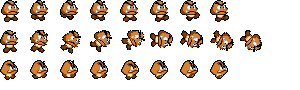
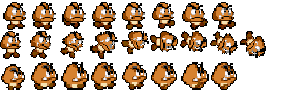
211118_0954
1. 몬스터 goomba 구현
2. MapEditor를 통한 몬스터 생성 구현
3. goomba와 player의 충돌체크

diff --git a/Player.py b/Player.py
@@ -1,6 +1,8 @@
 import game_framework
 import enum
 import math
+
+import mob_goomba
 from collide import *
 from pico2d import *
 
@@ -406,7 +408,6 @@ class JumpState:
         if not player.isJumping:
             player.timer_jump = 0
             player.jump_startY = player.y
-            print(player.y)
             player.isJumping = True
 
         # 방향
@@ -511,14 +512,12 @@ class JumpState:
 
                                 game_data.gameData.coin += 1
                             elif box.itemValue == boxType.mushroom:
-                                print('버섯')#
                                 newMush = Item_TransForm.TransformItem()
                                 newMush.x, newMush.y = box.x, box.y + box.frameY
                                 newMush.itemValue = transitem_Value.Mushroom
                                 Item_TransForm.transItems.append(newMush)
                                 game_world.add_object(newMush, 1)
                             elif box.itemValue == boxType.flower:
-                                print('꽃')#
                                 newFlower = Item_TransForm.TransformItem()
                                 newFlower.x, newFlower.y = box.x, box.y + box.frameY
                                 newFlower.isReverse = False
@@ -761,14 +760,12 @@ class GroundpoundState:
 
                                 game_data.gameData.coin += 1
                             elif box.itemValue == boxType.mushroom:
-                                print('버섯')  #
                                 newMush = Item_TransForm.TransformItem()
                                 newMush.x, newMush.y = box.x, box.y - box.frameY
                                 newMush.itemValue = transitem_Value.Mushroom
                                 Item_TransForm.transItems.append(newMush)
                                 game_world.add_object(newMush, 1)
                             elif box.itemValue == boxType.flower:
-                                print('꽃')  #
                                 newFlower = Item_TransForm.TransformItem()
                                 newFlower.x, newFlower.y = box.x, box.y - box.frameY
                                 newFlower.isReverse = True
@@ -876,7 +873,7 @@ next_state_table = {
     JumpState: {RIGHT_DOWN: JumpState, LEFT_DOWN: JumpState, RIGHT_UP: JumpState, LEFT_UP: JumpState
         , UP_DOWN: JumpState, UP_UP: JumpState, DOWN_DOWN: GroundpoundState, DOWN_UP: JumpState
         , SHIFT_DOWN: JumpState, SHIFT_UP: JumpState
-        , SPACE: DownState
+        , SPACE: JumpState
         , FALLING_EVENT: FallingState
         , LANDING_EVENT: IdleState, LANDING_RUN_EVENT: RunState, LANDING_DASH_EVENT: DashState
         , TRANSLATE_EVENT: TranslateState},
@@ -1017,6 +1014,27 @@ class Player:
                 game_world.remove_object(transItem)
                 break
 
+        # 몬스터
+        # 몬스터 충돌
+        for goomba in mob_goomba.goombas:
+            if not goomba.ismoving:
+                # goomba는 화면에 처음 잡혔을 때부터 움직이기 시작한다.
+                if self.x - self.scrollX <= goomba.x - goomba.scrollX <= self.x + 800 - self.scrollX:
+                    goomba.ismoving = True
+            else:
+                # 충돌체크
+                if not collideCheck(self, goomba) == None:
+                    if self.cur_state == FallingState or self.cur_state == GroundpoundState:
+                        if collideCheck(self, goomba) == 'bottom':
+                            print('처치')#
+                            mob_goomba.goombas.remove(goomba)
+                            game_world.remove_object(goomba)
+                    else:
+                        game_data.gameData.life -= 1
+                        self.x += (-1) * self.dir * 15
+                        self.y += 7
+                        if self.transform > P_Transform.T_Basic:
+                            self.transform -= 1
 
 
     def get_boundingbox(self):  # 바운딩박스
@@ -1048,6 +1066,7 @@ class Player:
                 Map_Pipe.show_bb = False
                 Map_Tile.show_bb = False
                 Item_TransForm.show_bb = False
+                mob_goomba.show_bb = False
             else:
                 self.show_bb = True
                 Map_Box.show_bb = True
@@ -1055,6 +1074,7 @@ class Player:
                 Map_Pipe.show_bb = True
                 Map_Tile.show_bb = True
                 Item_TransForm.show_bb = True
+                mob_goomba.show_bb = True
 
         if (event.type, event.key) == (SDL_KEYDOWN, SDLK_s):#test
             score = game_data.gameData.score

diff --git a/mob_goomba.py b/mob_goomba.py
@@ -2,7 +2,6 @@ from pico2d import *
 import game_framework
 import game_world
 from collide import collideCheck
-import enum
 import Map_Tile
 import Map_Box
 import Map_Brick
@@ -10,8 +9,13 @@ import Map_Pipe
 
 # Physics Variables...
 #
-# 마리오의 키는 2M 이라 가정,
+# 마리오의 키는 2M, 몸무게는 70kg 이라 가정,
 PIXEL_PER_METER = (30.0 / 1.0)  # 30 pixel == 1m
+
+# Player Action Speed
+TIME_PER_ACTION = 0.5
+ACTION_PER_TIME = 1.0 / TIME_PER_ACTION
+FRAMES_PER_ACTION = 4
 
 # Player Run Speed
 def KMPH2MPS(KMPH): # km/h -> m/sec
@@ -19,25 +23,22 @@ def KMPH2MPS(KMPH): # km/h -> m/sec
     MPS = MPM / 60.0
     return MPS      #return m/sec
 
-MOVE_SPEED_PPS = (KMPH2MPS(10) * PIXEL_PER_METER)
+MOVE_SPEED_PPS = (KMPH2MPS(5) * PIXEL_PER_METER)
 GRAVITY_ACCEL_PPS2 = -400.0 # px/s^2
-
-# enum
-class Value(enum.IntEnum):
-    Mushroom = 1
-    Fireflower = enum.auto()
 
 show_bb = False
 
-# 변신 아이템
-class TransformItem():
-    image_mush = None
-    image_flower = None
+class Goomba():
+    image = None
+    imageL = None
 
     def __init__(self):  # 생성자
         self.frameX, self.frameY = 30, 30  # 한 프레임 크기 (캐릭터 리소스 수정 시 여기 부분 수정하면됨!)
         self.x, self.y = 0, 0
         self.scrollX = 0
+        self.frame = 0
+
+        self.ismoving = False   # 굼바는 화면에 처음으로 잡혔을 때부터 움직이기 시작한다.
 
         self.dir = 1
         self.timerFall = 0
@@ -50,13 +51,14 @@ class TransformItem():
         self.landYPos = 0
 
         # 이미지
-        if self.image_mush == None:
-            self.image_mush = load_image('item_mushroom.png')
-            self.image_flower = load_image('item_fireflower.png')
-            self.image_flowerR = load_image('item_fireflowerR.png')
+        if self.image == None:
+            self.image = load_image('goomba.png')
+            self.imageL = load_image('goombaL.png')
 
     def update(self):
-        if self.itemValue == Value.Mushroom:
+        if self.ismoving:
+            self.frame = (self.frame + FRAMES_PER_ACTION * ACTION_PER_TIME * game_framework.frame_time) % 8
+
             #=== 왼쪽 오른쪽으로 이동
             # 충돌 체크 (왼쪽 or 오른쪽이이 오브젝트로 혀있는지 확인)
             collipse = False
@@ -132,19 +134,18 @@ class TransformItem():
                     self.timerFall = 0
 
             if self.y < 0 or self.x < 0:
-                transItems.remove(self)
+                goombas.remove(self)
                 game_world.remove_object(self)
-                print('removed')#
+                print('맵 밖으로 벗어남. removed')#
 
     def draw(self):
         # 렌더링
-        if self.itemValue == Value.Mushroom:
-            self.image_mush.draw(self.x - self.scrollX, self.y)
-        elif self.itemValue == Value.Fireflower:
-            if not self.isReverse:
-                self.image_flower.draw(self.x - self.scrollX, self.y)
-            else:
-                self.image_flowerR.draw(self.x - self.scrollX, self.y)
+        if self.dir == 1:
+            self.image.clip_draw(int(self.frame)*self.frameX,90 - 1 * self.frameY, self.frameX, self.frameY
+                                 , self.x - self.scrollX, self.y)
+        else:
+            self.imageL.clip_draw(int(self.frame) * self.frameX, 90 - 1 * self.frameY, self.frameX, self.frameY
+                                 , self.x - self.scrollX, self.y)
 
         # self.image.draw(self.x - self.scrollX, self.y)
 
@@ -156,9 +157,9 @@ class TransformItem():
 
 
 
-transItems = []
-def make_transItem(xPos, yPos, value):
-    newitem = TransformItem()
-    newitem.x, newitem.y = xPos, yPos
-    newitem.itemValue = value
-    transItems.append(newitem)
+goombas = []
+def makeGoombas(xPos, yPos, dir):
+    newmob = Goomba()
+    newmob.x, newmob.y = xPos, yPos
+    newmob.dir = dir
+    goombas.append(newmob)

diff --git a/ball.py b/ball.py
@@ -1,6 +1,11 @@
 import game_framework
 from pico2d import *
 import game_world
+from collide import collideCheck
+import Map_Tile
+import Map_Box
+import Map_Brick
+import Map_Pipe
 
 PIXEL_PER_METER = (10.0 / 0.3) #10 pixel 30cm boy.py와 동일
 SHOOT_SPEED_KMPH = 100.0
@@ -33,7 +38,38 @@ class Fireball:
         self.x += self.velocity * game_framework.frame_time
         self.frame = (self.frame + FRAMES_PER_ACTION * ACTION_PER_TIME * game_framework.frame_time) % 4
 
-        if self.x < 25 or self.x > 1600 - 25:
+        # 충돌 체크 (왼쪽 or 오른쪽이이 오브젝트로 혀있는지 확인)
+        collipse = False
+        checkCount = 0
+        while (not collipse and checkCount < 4):
+            if checkCount == 0:
+                for box in Map_Box.boxes:
+                    if collideCheck(self, box) == "left" or collideCheck(self, box) == "right":
+                        collipse = True
+                        break
+            elif checkCount == 1:
+                for brick in Map_Brick.bricks:
+                    if collideCheck(self, brick) == "left" or collideCheck(self, brick) == "right":
+                        collipse = True
+                        break
+            elif checkCount == 2:
+                for pipe in Map_Pipe.pipes:
+                    if collideCheck(self, pipe) == "left" or collideCheck(self, pipe) == "right":
+                        collipse = True
+                        break
+            elif checkCount == 3:
+                for tile in Map_Tile.tiles:
+                    if collideCheck(self, tile) == "left" or collideCheck(self, tile) == "right":
+                        collipse = True
+                        break
+
+            checkCount += 1
+
+        # 충돌하면 삭제
+        if collipse:
+            game_world.remove_object(self)
+        # 맵을 벗어나면 삭제
+        if self.x < 0 or self.x > 6600:
             game_world.remove_object(self)
 
 fireballs = []

diff --git a/MapEditor.py b/MapEditor.py
@@ -4,7 +4,7 @@ import Map_Tile
 import Map_Box
 import Map_Brick
 import Map_Pipe
-
+import mob_goomba
 
 def editMap(mapName):
     #=== initialize
@@ -14,9 +14,10 @@ def editMap(mapName):
     if mapName == "map1":
         ground_file_name = "Data_Map_1_ground.txt"
         obj_file_name = "Data_Map_1_obj.txt"
+        mob_file_name = "Data_Map_1_mob.txt"
 
 
-    # 지형 Ground
+    #=== 지형 Ground
     ground_repeat = 0
     ground_xPos, ground_yPos = 0, 0
     ground_type = ""
@@ -41,7 +42,8 @@ def editMap(mapName):
             break
 
 
-    # 오브젝트 Obj
+    #=== 오브젝트 Obj
+    # 지형 obj
     obj_xPos, obj_yPos = 0, 0
     obj_type = ""
     obj_name = ""
@@ -72,5 +74,32 @@ def editMap(mapName):
         except:
             break
 
+    # 몹 obj
+    mob_xPos, mob_yPos = 0, 0
+    mob_type = ""
+    mob_name = ""
+    mob_dir = 1
 
-    obj_data_file.close()
+    data_map_mob = []
+
+    mob_data_file = open(mob_file_name, "r", encoding="utf8")
+
+    while True:
+        try:
+            data_mob_line = mob_data_file.readline()
+
+            data_mob_obj = data_mob_line.split()
+
+            mob_xPos = float(data_mob_obj[0])
+            mob_yPos = float(data_mob_obj[1])
+            mob_type = data_mob_obj[2]
+            mob_dir = int(data_mob_obj[3])
+
+            if mob_type == "goomba":
+                mob_goomba.makeGoombas(mob_xPos*size, mob_yPos*size, mob_dir)
+
+        except:
+            break
+
+
+    mob_data_file.close()

diff --git a/state_map1.py b/state_map1.py
@@ -18,6 +18,7 @@ import Map_Pipe
 import Item_Coin
 import Item_TransForm
 import ball
+import mob_goomba
 
 
 name = "Map1"
@@ -56,6 +57,10 @@ def enter():
 
     for transItem in Item_TransForm.transItems:
         game_world.add_object(transItem, 0)
+
+    # mob_goomba.make_goombas(300, 100)
+    for goomba in mob_goomba.goombas:
+        game_world.add_object(goomba, 0)
 
 
     game_world.add_object(player, 1)
@@ -115,8 +120,12 @@ def update():
     for fireball in ball.fireballs:
         fireball.scrollX = scrollMgr.getScrollX("Map1", player)
 
+    for goomba in mob_goomba.goombas:
+        goomba.scrollX = scrollMgr.getScrollX("Map1", player)
+
     for game_object in game_world.all_objects():
         game_object.update()
+
 
 
 def draw():
